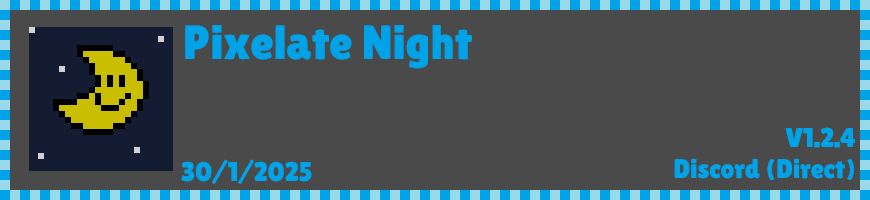
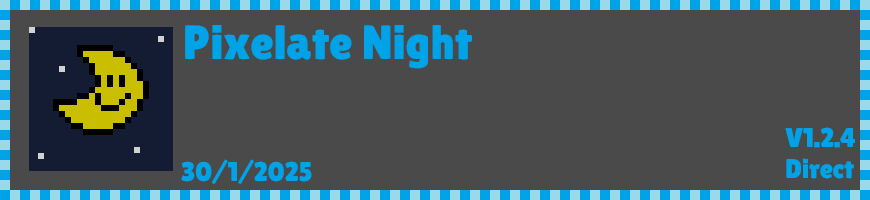
Direct Downloads DSi

Changed region(s): [[0.7759, 0.78, 0.9931, 0.9]]

diff --git a/downloads/themes/DSi/DSi.html b/downloads/themes/DSi/DSi.html
@@ -286,50 +286,48 @@
 }
     </style>
     <link href="https://fonts.googleapis.com/css2?family=Lilita+One&display=swap" rel="stylesheet">
-    <link rel="icon" href="icon.png" type="image/png">
-</head>
-<body>
+    <link rel="icon" href="https://simbiantech.github.io/Site/resources/icon.webp" type="image/png">
+    </head>
+    <body>
     <!-- Header -->
     <div class="header">
         <a href="https://simbiantech.github.io/Site/" class="title">Simbian's Attic</a>
         <!-- Buttons Container on the Left -->
         <div class="header-buttons">
             <a href="https://simbiantech.github.io/Site/other/other.html" class="header-button">
-                <img src="others-icon.png" alt="other Icon"> Other
+                <img src="https://simbiantech.github.io/Site/resources/others-icon.webp" alt="other Icon"> Other
             </a>
             <a href="https://simbiantech.github.io/Site/gallery/gallery.html" class="header-button">
-                <img src="gallery-icon.png" alt="Gallery Icon"> Gallery
+                <img src="https://simbiantech.github.io/Site/resources/gallery-icon.webp" alt="Gallery Icon"> Gallery
             </a>
             <a href="https://simbiantech.github.io/Site/downloads/downloads.html" class="header-button">
-                <img src="downloads-icon.png" alt="Downloads Icon"> Downloads
+                <img src="https://simbiantech.github.io/Site/resources/downloads-icon.webp" alt="Downloads Icon"> Downloads
             </a>
             <a href="https://simbiantech.github.io/Site/linktree/linktree.html" class="header-button">
-                <img src="linktree-icon.png" alt="Link Tree Icon"> Link Tree
+                <img src="https://simbiantech.github.io/Site/resources/linktree-icon.webp" alt="Link Tree Icon"> Link Tree
             </a>
-    
         </div>
     
         <!-- Hamburger Menu (Image as Icon) -->
         <div class="hamburger-menu" onclick="toggleMenu()">
-            <img src="ham.png" alt="Hamburger Menu Icon">
+            <img src="https://simbiantech.github.io/Site/resources/ham.webp" alt="Hamburger Menu Icon">
         </div>
     </div>
     
     <!-- Fullscreen Mobile Menu -->
     <div class="mobile-menu" id="mobileMenu">
         <a href="https://simbiantech.github.io/Site/other/other.html">
-            <img src="others-icon.png" alt="Other"> Other
+            <img src="https://simbiantech.github.io/Site/resources/others-icon.webp" alt="Other"> Other
         </a>
         <a href="https://simbiantech.github.io/Site/gallery/gallery.html">
-            <img src="gallery-icon.png" alt="Gallery"> Gallery
+            <img src="https://simbiantech.github.io/Site/resources/gallery-icon.webp" alt="Gallery"> Gallery
         </a>
         <a href="https://simbiantech.github.io/Site/downloads/downloads.html">
-            <img src="downloads-icon.png" alt="Downloads Icon"> Downloads
+            <img src="https://simbiantech.github.io/Site/resources/downloads-icon.webp" alt="Downloads Icon"> Downloads
         </a>
         <a href="https://simbiantech.github.io/Site/linktree/linktree.html">
-            <img src="linktree-icon.png" alt="Link Tree Icon"> Link Tree
+            <img src="https://simbiantech.github.io/Site/resources/linktree-icon.webp" alt="Link Tree Icon"> Link Tree
         </a>
-    
     </div>
 
     <!-- Main Content -->
@@ -344,9 +342,9 @@
         <!-- Right Section -->
         <div class="right-section">
             <!-- Button 1 -->
-            <a class="button" style="background-image: url('31.png');" href="https://cdn.discordapp.com/attachments/1350943429085106287/1350943723973771274/Pixelate_Night_V1.2.4.zip?ex=67d893e3&is=67d74263&hm=ab53254e6e5cfc14c07d304b0858a23d23e7f6854f4debb880c632ecebeb126d&"></a>
+            <a class="button" style="background-image: url('31.png');" href="Pixelate-Night-V1.2.4.zip"></a>
             <!-- Button 2 -->
-            <a class="button" style="background-image: url('32.png');" href="https://cdn.discordapp.com/attachments/1350943429085106287/1350943723625906186/Pixelate_Day_V1.2.4.zip?ex=67d893e3&is=67d74263&hm=630db3a17b58f13085e795912f5b4606a72a145ec3efa1ab0de16fbcb66ecb94&"></a>
+            <a class="button" style="background-image: url('32.png');" href="Pixelate-Day-V1.2.4.zip"></a>
 
         </div>
     </div>
